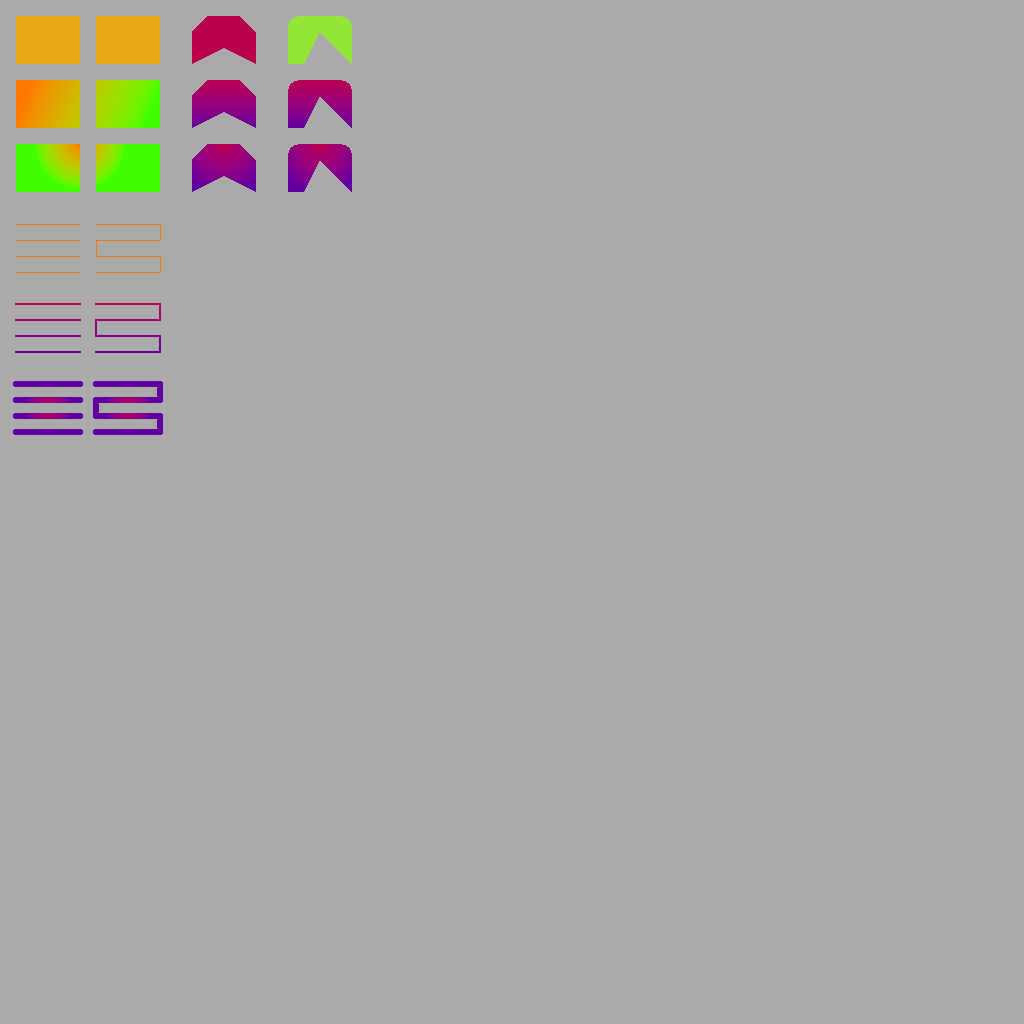
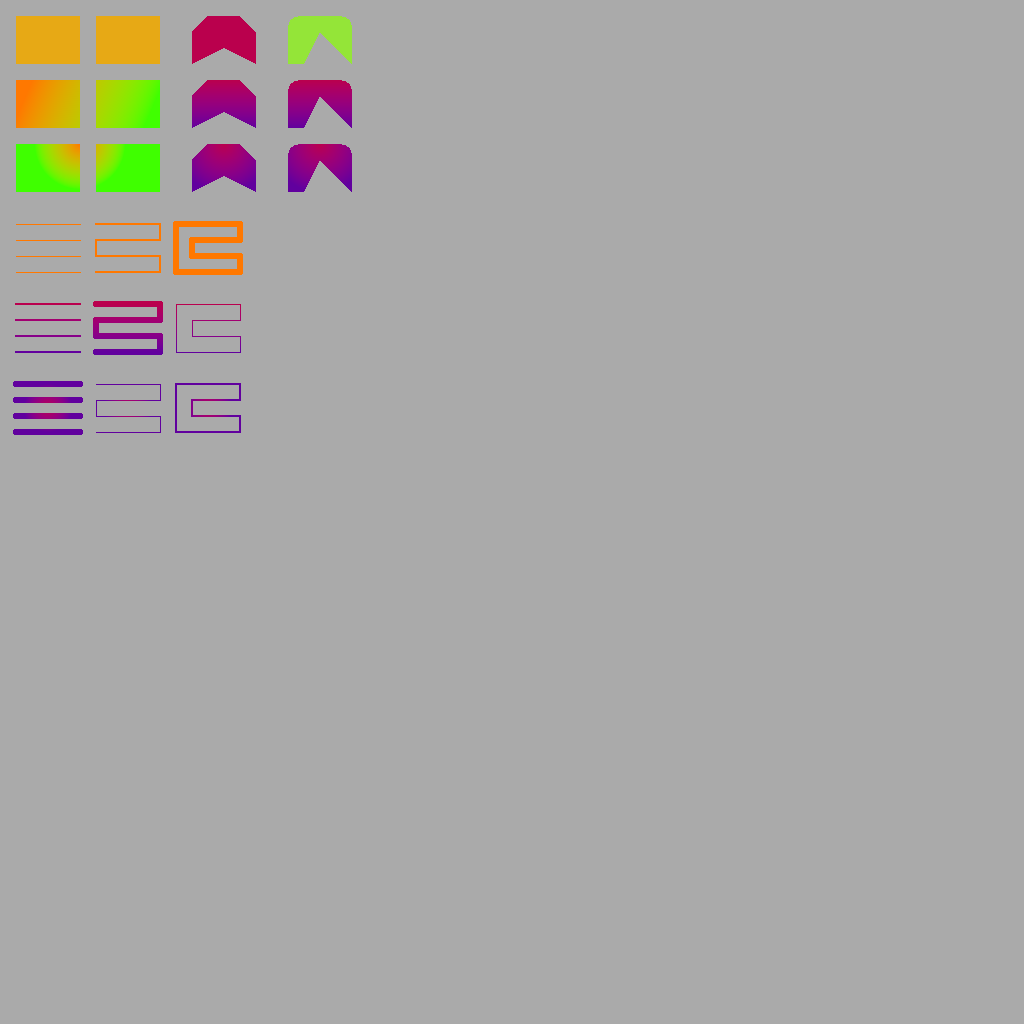
Adds line_loop rendering and feature item.

Changed region(s): [[0.0938, 0.2812, 0.2188, 0.4375], [0.1562, 0.2188, 0.25, 0.2812]]

diff --git a/README.md b/README.md
@@ -60,6 +60,10 @@ See the following documents:
 - [Specification](documents/specification.md)
 - [Textual Representation](documents/text-format.md)
 
+See also this image to have a preview of what is already implemented:
+
+![Preview](examples/feature-showcase.png)
+
 ## Considerations
 
 - Which color format does TVG use?
